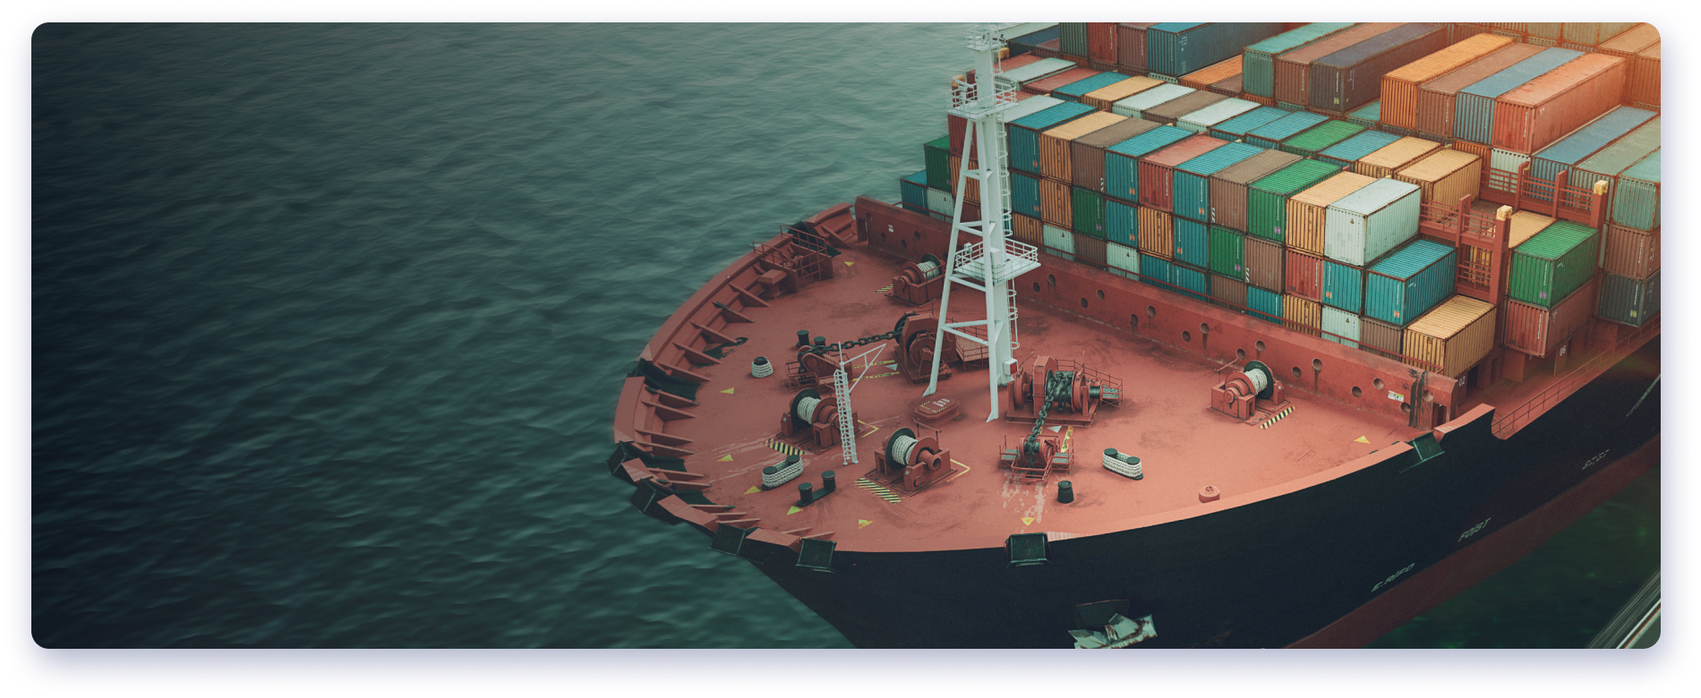
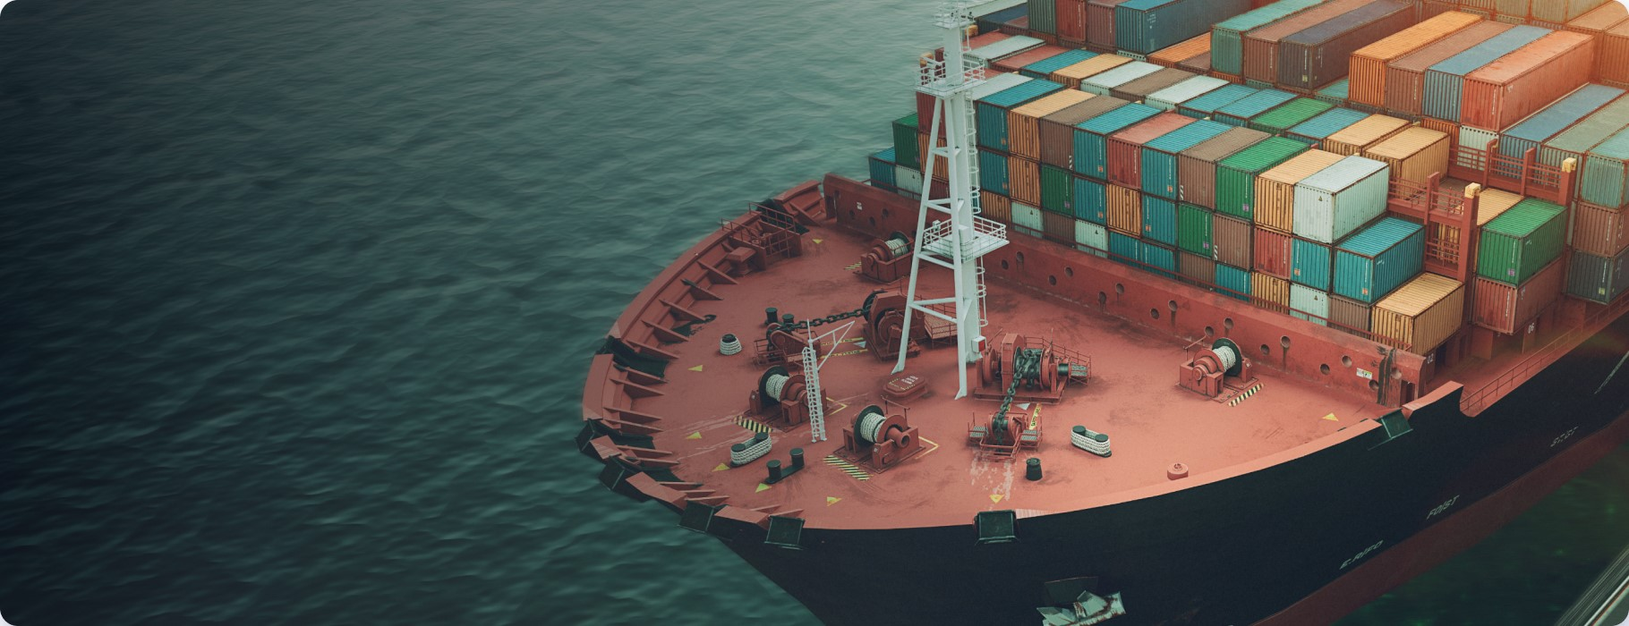
Fixed bag

diff --git a/dist/assets/css/style.min.css b/dist/assets/css/style.min.css
@@ -1,1 +1,1 @@
-/*! normalize.css v8.0.1 | MIT License | github.com/necolas/normalize.css */html{line-height:1.15;-webkit-text-size-adjust:100%}body{margin:0}main{display:block}h1{font-size:2em;margin:.67em 0}hr{box-sizing:content-box;height:0;overflow:visible}pre{font-family:monospace,monospace;font-size:1em}a{background-color:rgba(0,0,0,0)}abbr[title]{border-bottom:none;text-decoration:underline;-webkit-text-decoration:underline dotted;text-decoration:underline dotted}b,strong{font-weight:bolder}code,kbd,samp{font-family:monospace,monospace;font-size:1em}small{font-size:80%}sub,sup{font-size:75%;line-height:0;position:relative;vertical-align:baseline}sub{bottom:-.25em}sup{top:-.5em}img{border-style:none}button,input,optgroup,select,textarea{font-family:inherit;font-size:100%;line-height:1.15;margin:0}button,input{overflow:visible}button,select{text-transform:none}[type=button],[type=reset],[type=submit],button{-webkit-appearance:button}[type=button]::-moz-focus-inner,[type=reset]::-moz-focus-inner,[type=submit]::-moz-focus-inner,button::-moz-focus-inner{border-style:none;padding:0}[type=button]:-moz-focusring,[type=reset]:-moz-focusring,[type=submit]:-moz-focusring,button:-moz-focusring{outline:1px dotted ButtonText}fieldset{padding:.35em .75em .625em}legend{box-sizing:border-box;color:inherit;display:table;max-width:100%;padding:0;white-space:normal}progress{vertical-align:baseline}textarea{overflow:auto}[type=checkbox],[type=radio]{box-sizing:border-box;padding:0}[type=number]::-webkit-inner-spin-button,[type=number]::-webkit-outer-spin-button{height:auto}[type=search]{-webkit-appearance:textfield;outline-offset:-2px}[type=search]::-webkit-search-decoration{-webkit-appearance:none}::-webkit-file-upload-button{-webkit-appearance:button;font:inherit}details{display:block}summary{display:list-item}template{display:none}[hidden]{display:none}@font-face{font-family:"Proxima Nova";src:url(../fonts/ProximaNova-Regular.woff);font-weight:400}@font-face{font-family:"Proxima Nova";src:url(../fonts/ProximaNova-Semibold.woff);font-weight:600}@font-face{font-family:"Proxima Nova";src:url(../fonts/ProximaNova-Bold.woff);font-weight:700}@font-face{font-family:"Proxima Nova";src:url(../fonts/ProximaNova-Light.woff);font-weight:400}body{background-color:#282b38}*{box-sizing:border-box;font-family:"Proxima Nova";font-style:normal}h1,h2,h3,h4,h5,h6{margin:0}p{margin-block-start:0;margin-block-end:0}ul{list-style:none;margin-block-start:1em;margin-block-end:1em;padding-inline-start:0}.container{max-width:1170px;padding:0 15px;margin:0 auto}.lock{overflow:hidden}.title{max-width:463px;font-weight:700;font-size:30px;line-height:71px;text-transform:uppercase;color:#fff}@media(min-width:320px){.title{font-size:56px;font-size:calc(.0270833333 * 100vw + 21.3333333333px)}}@media(min-width:1280px){.title{font-size:56px}}.descr{font-weight:400;font-size:20px;line-height:27px;color:#fff}.descr__slide{margin-top:8px}.button{background-color:#e58d35;width:171px;height:50px;font-weight:600;font-size:15px;color:#fff;border-radius:90px;border:none}.button__slide{margin-top:37px;width:293px;height:68px;text-align:left;padding-left:30px;padding-right:97px;position:relative}.button__slide::after{content:"";width:27px;height:27px;position:absolute;top:50%;right:21px;transform:translateY(-50%);background:url(../icon/arrow-right.svg) center center/cover no-repeat}@media(max-width:800px){.title{max-width:100%;text-align:center}.descr{text-align:center}.button__slide{display:block;margin:37px auto 0 auto}}.slider{margin:23px auto 0 auto;padding:0 50px;max-width:1820px;position:relative}.slider__wrapper{width:100%;overflow:hidden}.slider__navigation{width:100%}.slider__prev{position:absolute;left:8.18%;background:0 0;border:none;top:50%;transform:translateY(-50%)}.slider__prev svg{fill:#fff}.slider__next{position:absolute;right:8.18%;background:0 0;border:none;top:50%;transform:translateY(-50%)}.slider__next svg{fill:#fff}.slider__pagination{position:absolute;bottom:43px;left:50%;transform:translateX(-50%);min-width:110px;height:8px;display:flex;justify-content:space-between;align-items:center}.slider__pagination-item{width:10px;height:10px;opacity:.9;border:2px solid #fff;border-radius:90px}.slider__pagination-item.active{background-color:#fff}@media(max-width:800px){.header-slider{padding:0}}.header{padding:25px 18px;position:relative}.header-slide{min-height:700px;border-radius:20px;overflow:hidden;padding:163px 30px 267px 30px}.header-slide__wrapper{margin-left:18.68%}.header-slide_1{background:url(../img/Header/1.jpg) center center/cover no-repeat}.header-slide_2{background:url(../img/Header/2.jpg) center center/cover no-repeat}.header-slide_3{background:url(../img/Header/3.jpg) center center/cover no-repeat}.header-slide_4{background:url(../img/Header/4.jpg) center center/cover no-repeat}.menu{display:flex;justify-content:space-between;align-items:center;position:relative}.menu__logo{width:15.08%;margin-right:30px}.menu__logo img{width:100%}.menu__body{display:flex;justify-content:space-between;align-items:center;width:76.4%}.menu__nav{width:69.11%}.menu__list{display:flex;justify-content:space-between}.menu__link{font-weight:400;font-size:16px;line-height:23px;color:#fff;text-decoration:none;position:relative;transition:.3s all}.menu__link:hover{color:#e58d35;font-size:18px}.menu__block{width:171px;height:50px;margin-left:30px}.menu__burger{height:40px;width:40px;display:flex;align-items:center;position:absolute;top:0;right:0}.menu__burger span{display:none;width:100%;height:4px;background-color:#fff}.menu__burger span::after,.menu__burger span::before{content:"";height:4px;width:100%;background-color:#fff;position:absolute;right:0;transition:.3s all}.menu__burger span::before{top:7px}.menu__burger span::after{bottom:7px}.menu__burger.active span{height:0}.menu__burger.active span::before{transform:rotate(-45deg);top:18px}.menu__burger.active span::after{transform:rotate(45deg);bottom:18px}@media(max-width:960px){.menu__logo{width:172px;height:48.35px}.menu__body{position:fixed;flex-direction:column;width:50%;height:100vh;top:0;right:-100%;background:#282b38;z-index:5;padding:50px 0 50px 0}.menu__body.active{right:0}.menu__nav{height:60%;width:100%}.menu__list{height:100%;flex-direction:column;align-items:center}.menu__burger{z-index:20}.menu__burger span{display:block}}@media(max-width:800px){.header-slide__wrapper{margin-left:0;padding-left:5%;padding-right:5%}}@media(max-width:630px){.menu__body{width:100%}.menu__nav{height:72%}}
+/*! normalize.css v8.0.1 | MIT License | github.com/necolas/normalize.css */html{line-height:1.15;-webkit-text-size-adjust:100%}body{margin:0}main{display:block}h1{font-size:2em;margin:.67em 0}hr{box-sizing:content-box;height:0;overflow:visible}pre{font-family:monospace,monospace;font-size:1em}a{background-color:rgba(0,0,0,0)}abbr[title]{border-bottom:none;text-decoration:underline;-webkit-text-decoration:underline dotted;text-decoration:underline dotted}b,strong{font-weight:bolder}code,kbd,samp{font-family:monospace,monospace;font-size:1em}small{font-size:80%}sub,sup{font-size:75%;line-height:0;position:relative;vertical-align:baseline}sub{bottom:-.25em}sup{top:-.5em}img{border-style:none}button,input,optgroup,select,textarea{font-family:inherit;font-size:100%;line-height:1.15;margin:0}button,input{overflow:visible}button,select{text-transform:none}[type=button],[type=reset],[type=submit],button{-webkit-appearance:button}[type=button]::-moz-focus-inner,[type=reset]::-moz-focus-inner,[type=submit]::-moz-focus-inner,button::-moz-focus-inner{border-style:none;padding:0}[type=button]:-moz-focusring,[type=reset]:-moz-focusring,[type=submit]:-moz-focusring,button:-moz-focusring{outline:1px dotted ButtonText}fieldset{padding:.35em .75em .625em}legend{box-sizing:border-box;color:inherit;display:table;max-width:100%;padding:0;white-space:normal}progress{vertical-align:baseline}textarea{overflow:auto}[type=checkbox],[type=radio]{box-sizing:border-box;padding:0}[type=number]::-webkit-inner-spin-button,[type=number]::-webkit-outer-spin-button{height:auto}[type=search]{-webkit-appearance:textfield;outline-offset:-2px}[type=search]::-webkit-search-decoration{-webkit-appearance:none}::-webkit-file-upload-button{-webkit-appearance:button;font:inherit}details{display:block}summary{display:list-item}template{display:none}[hidden]{display:none}@font-face{font-family:"Proxima Nova";src:url(../fonts/ProximaNova-Regular.woff);font-weight:400}@font-face{font-family:"Proxima Nova";src:url(../fonts/ProximaNova-Semibold.woff);font-weight:600}@font-face{font-family:"Proxima Nova";src:url(../fonts/ProximaNova-Bold.woff);font-weight:700}@font-face{font-family:"Proxima Nova";src:url(../fonts/ProximaNova-Light.woff);font-weight:400}body{background-color:#282b38}*{box-sizing:border-box;font-family:"Proxima Nova";font-style:normal}h1,h2,h3,h4,h5,h6{margin:0}p{margin-block-start:0;margin-block-end:0}ul{list-style:none;margin-block-start:1em;margin-block-end:1em;padding-inline-start:0}.container{max-width:1170px;padding:0 15px;margin:0 auto}.lock{overflow:hidden}.title{max-width:463px;font-weight:700;font-size:30px;line-height:71px;text-transform:uppercase;color:#fff}@media(min-width:320px){.title{font-size:56px;font-size:calc(.0270833333 * 100vw + 21.3333333333px)}}@media(min-width:1280px){.title{font-size:56px}}.descr{font-weight:400;font-size:20px;line-height:27px;color:#fff}.descr__slide{margin-top:8px}.button{background-color:#e58d35;width:171px;height:50px;font-weight:600;font-size:15px;color:#fff;border-radius:90px;border:none;transition:.2s all;cursor:pointer}.button:hover{transform:scale(1.05)}.button__slide{margin-top:37px;width:293px;height:68px;text-align:left;padding-left:30px;padding-right:97px;position:relative}.button__slide::after{content:"";width:27px;height:27px;position:absolute;top:50%;right:21px;transform:translateY(-50%);background:url(../icon/arrow-right.svg) center center/cover no-repeat}@media(max-width:800px){.title{max-width:100%;text-align:center}.descr{text-align:center}.button__slide{display:block;margin:37px auto 0 auto}}.slider{margin:23px auto 0 auto;position:relative}.slider__wrapper{width:100%;overflow:hidden}.slider__navigation{width:100%;height:46px;z-index:1;position:absolute;top:50%}.slider__prev{position:absolute;left:8.18%;background:0 0;border:none;cursor:pointer}.slider__prev svg{fill:#fff;transition:.2s all}.slider__prev svg:hover{fill:#e58d35}.slider__next{position:absolute;right:8.18%;background:0 0;border:none;cursor:pointer}.slider__next svg{fill:#fff;transition:.2s all}.slider__next svg:hover{fill:#e58d35}.slider__pagination{position:absolute;bottom:43px;left:50%;transform:translateX(-50%);min-width:110px;height:8px;display:flex;justify-content:space-between;align-items:center}.slider__pagination-item{width:10px;height:10px;opacity:.9;border:2px solid #fff;border-radius:90px;transition:.2s all;cursor:pointer}.slider__pagination-item:hover{transform:scale(1.2)}.slider__pagination-item.active{background-color:#fff}.header-slide{height:700px;border-radius:20px;overflow:hidden;padding:163px 30px 267px 30px}.header-slide__wrapper{margin-left:18.68%}.header-slide_1{background:url(../img/Header/1.jpg) center center/cover no-repeat}.header-slide_2{background:url(../img/Header/2.jpg) center center/cover no-repeat}.header-slide_3{background:url(../img/Header/3.jpg) center center/cover no-repeat}.header-slide_4{background:url(../img/Header/4.jpg) center center/cover no-repeat}@media(max-width:1024px){.header-slide{height:600px;padding:63px 30px 110px 30px}}@media(max-width:800px){.header-slide{height:500px;padding:63px 30px 110px 30px}}@media(max-width:630px){.slider__navigation{display:none}}.header{padding:25px 50px;position:relative}.menu{display:flex;justify-content:space-between;align-items:center;position:relative}.menu__logo{width:15.08%;margin-right:30px}.menu__logo img{width:100%}.menu__body{display:flex;justify-content:space-between;align-items:center;width:76.4%}.menu__nav{width:69.11%}.menu__list{display:flex;justify-content:space-between}.menu__link{font-weight:400;font-size:16px;line-height:23px;color:#fff;text-decoration:none;position:relative;transition:.3s all}.menu__link:hover{color:#e58d35}.menu__block{width:171px;height:50px;margin-left:30px}.menu__burger{height:40px;width:40px;display:flex;align-items:center;position:absolute;top:0;right:0}.menu__burger span{display:none;width:100%;height:4px;background-color:#fff}.menu__burger span::after,.menu__burger span::before{content:"";height:4px;width:100%;background-color:#fff;position:absolute;right:0;transition:.3s all}.menu__burger span::before{top:7px}.menu__burger span::after{bottom:7px}.menu__burger.active span{height:0}.menu__burger.active span::before{transform:rotate(-45deg);top:18px}.menu__burger.active span::after{transform:rotate(45deg);bottom:18px}@media(max-width:960px){.header{padding:25px 30px}.menu__logo{width:172px;height:48.35px}.menu__body{position:fixed;flex-direction:column;width:50%;height:100vh;top:0;right:-100%;background:#282b38;z-index:5;padding:50px 0 50px 0}.menu__body.active{right:0}.menu__nav{height:60%;width:100%}.menu__list{height:100%;flex-direction:column;align-items:center}.menu__burger{z-index:20}.menu__burger span{display:block}}@media(max-width:800px){.header{padding:25px 10px}.header-slide__wrapper{margin-left:0;padding-left:5%;padding-right:5%}.header-slider{padding:0}}@media(max-width:630px){.menu__body{width:100%}.menu__nav{height:72%}}

diff --git a/src/assets/css/style.min.css b/src/assets/css/style.min.css
@@ -1,1 +1,1 @@
-/*! normalize.css v8.0.1 | MIT License | github.com/necolas/normalize.css */html{line-height:1.15;-webkit-text-size-adjust:100%}body{margin:0}main{display:block}h1{font-size:2em;margin:.67em 0}hr{box-sizing:content-box;height:0;overflow:visible}pre{font-family:monospace,monospace;font-size:1em}a{background-color:rgba(0,0,0,0)}abbr[title]{border-bottom:none;text-decoration:underline;-webkit-text-decoration:underline dotted;text-decoration:underline dotted}b,strong{font-weight:bolder}code,kbd,samp{font-family:monospace,monospace;font-size:1em}small{font-size:80%}sub,sup{font-size:75%;line-height:0;position:relative;vertical-align:baseline}sub{bottom:-.25em}sup{top:-.5em}img{border-style:none}button,input,optgroup,select,textarea{font-family:inherit;font-size:100%;line-height:1.15;margin:0}button,input{overflow:visible}button,select{text-transform:none}[type=button],[type=reset],[type=submit],button{-webkit-appearance:button}[type=button]::-moz-focus-inner,[type=reset]::-moz-focus-inner,[type=submit]::-moz-focus-inner,button::-moz-focus-inner{border-style:none;padding:0}[type=button]:-moz-focusring,[type=reset]:-moz-focusring,[type=submit]:-moz-focusring,button:-moz-focusring{outline:1px dotted ButtonText}fieldset{padding:.35em .75em .625em}legend{box-sizing:border-box;color:inherit;display:table;max-width:100%;padding:0;white-space:normal}progress{vertical-align:baseline}textarea{overflow:auto}[type=checkbox],[type=radio]{box-sizing:border-box;padding:0}[type=number]::-webkit-inner-spin-button,[type=number]::-webkit-outer-spin-button{height:auto}[type=search]{-webkit-appearance:textfield;outline-offset:-2px}[type=search]::-webkit-search-decoration{-webkit-appearance:none}::-webkit-file-upload-button{-webkit-appearance:button;font:inherit}details{display:block}summary{display:list-item}template{display:none}[hidden]{display:none}@font-face{font-family:"Proxima Nova";src:url(../fonts/ProximaNova-Regular.woff);font-weight:400}@font-face{font-family:"Proxima Nova";src:url(../fonts/ProximaNova-Semibold.woff);font-weight:600}@font-face{font-family:"Proxima Nova";src:url(../fonts/ProximaNova-Bold.woff);font-weight:700}@font-face{font-family:"Proxima Nova";src:url(../fonts/ProximaNova-Light.woff);font-weight:400}body{background-color:#282b38}*{box-sizing:border-box;font-family:"Proxima Nova";font-style:normal}h1,h2,h3,h4,h5,h6{margin:0}p{margin-block-start:0;margin-block-end:0}ul{list-style:none;margin-block-start:1em;margin-block-end:1em;padding-inline-start:0}.container{max-width:1170px;padding:0 15px;margin:0 auto}.lock{overflow:hidden}.title{max-width:463px;font-weight:700;font-size:30px;line-height:71px;text-transform:uppercase;color:#fff}@media(min-width:320px){.title{font-size:56px;font-size:calc(.0270833333 * 100vw + 21.3333333333px)}}@media(min-width:1280px){.title{font-size:56px}}.descr{font-weight:400;font-size:20px;line-height:27px;color:#fff}.descr__slide{margin-top:8px}.button{background-color:#e58d35;width:171px;height:50px;font-weight:600;font-size:15px;color:#fff;border-radius:90px;border:none}.button__slide{margin-top:37px;width:293px;height:68px;text-align:left;padding-left:30px;padding-right:97px;position:relative}.button__slide::after{content:"";width:27px;height:27px;position:absolute;top:50%;right:21px;transform:translateY(-50%);background:url(../icon/arrow-right.svg) center center/cover no-repeat}@media(max-width:800px){.title{max-width:100%;text-align:center}.descr{text-align:center}.button__slide{display:block;margin:37px auto 0 auto}}.slider{margin:23px auto 0 auto;padding:0 50px;max-width:1820px;position:relative}.slider__wrapper{width:100%;overflow:hidden}.slider__navigation{width:100%}.slider__prev{position:absolute;left:8.18%;background:0 0;border:none;top:50%;transform:translateY(-50%)}.slider__prev svg{fill:#fff}.slider__next{position:absolute;right:8.18%;background:0 0;border:none;top:50%;transform:translateY(-50%)}.slider__next svg{fill:#fff}.slider__pagination{position:absolute;bottom:43px;left:50%;transform:translateX(-50%);min-width:110px;height:8px;display:flex;justify-content:space-between;align-items:center}.slider__pagination-item{width:10px;height:10px;opacity:.9;border:2px solid #fff;border-radius:90px}.slider__pagination-item.active{background-color:#fff}@media(max-width:800px){.header-slider{padding:0}}.header{padding:25px 18px;position:relative}.header-slide{min-height:700px;border-radius:20px;overflow:hidden;padding:163px 30px 267px 30px}.header-slide__wrapper{margin-left:18.68%}.header-slide_1{background:url(../img/Header/1.jpg) center center/cover no-repeat}.header-slide_2{background:url(../img/Header/2.jpg) center center/cover no-repeat}.header-slide_3{background:url(../img/Header/3.jpg) center center/cover no-repeat}.header-slide_4{background:url(../img/Header/4.jpg) center center/cover no-repeat}.menu{display:flex;justify-content:space-between;align-items:center;position:relative}.menu__logo{width:15.08%;margin-right:30px}.menu__logo img{width:100%}.menu__body{display:flex;justify-content:space-between;align-items:center;width:76.4%}.menu__nav{width:69.11%}.menu__list{display:flex;justify-content:space-between}.menu__link{font-weight:400;font-size:16px;line-height:23px;color:#fff;text-decoration:none;position:relative;transition:.3s all}.menu__link:hover{color:#e58d35;font-size:18px}.menu__block{width:171px;height:50px;margin-left:30px}.menu__burger{height:40px;width:40px;display:flex;align-items:center;position:absolute;top:0;right:0}.menu__burger span{display:none;width:100%;height:4px;background-color:#fff}.menu__burger span::after,.menu__burger span::before{content:"";height:4px;width:100%;background-color:#fff;position:absolute;right:0;transition:.3s all}.menu__burger span::before{top:7px}.menu__burger span::after{bottom:7px}.menu__burger.active span{height:0}.menu__burger.active span::before{transform:rotate(-45deg);top:18px}.menu__burger.active span::after{transform:rotate(45deg);bottom:18px}@media(max-width:960px){.menu__logo{width:172px;height:48.35px}.menu__body{position:fixed;flex-direction:column;width:50%;height:100vh;top:0;right:-100%;background:#282b38;z-index:5;padding:50px 0 50px 0}.menu__body.active{right:0}.menu__nav{height:60%;width:100%}.menu__list{height:100%;flex-direction:column;align-items:center}.menu__burger{z-index:20}.menu__burger span{display:block}}@media(max-width:800px){.header-slide__wrapper{margin-left:0;padding-left:5%;padding-right:5%}}@media(max-width:630px){.menu__body{width:100%}.menu__nav{height:72%}}
+/*! normalize.css v8.0.1 | MIT License | github.com/necolas/normalize.css */html{line-height:1.15;-webkit-text-size-adjust:100%}body{margin:0}main{display:block}h1{font-size:2em;margin:.67em 0}hr{box-sizing:content-box;height:0;overflow:visible}pre{font-family:monospace,monospace;font-size:1em}a{background-color:rgba(0,0,0,0)}abbr[title]{border-bottom:none;text-decoration:underline;-webkit-text-decoration:underline dotted;text-decoration:underline dotted}b,strong{font-weight:bolder}code,kbd,samp{font-family:monospace,monospace;font-size:1em}small{font-size:80%}sub,sup{font-size:75%;line-height:0;position:relative;vertical-align:baseline}sub{bottom:-.25em}sup{top:-.5em}img{border-style:none}button,input,optgroup,select,textarea{font-family:inherit;font-size:100%;line-height:1.15;margin:0}button,input{overflow:visible}button,select{text-transform:none}[type=button],[type=reset],[type=submit],button{-webkit-appearance:button}[type=button]::-moz-focus-inner,[type=reset]::-moz-focus-inner,[type=submit]::-moz-focus-inner,button::-moz-focus-inner{border-style:none;padding:0}[type=button]:-moz-focusring,[type=reset]:-moz-focusring,[type=submit]:-moz-focusring,button:-moz-focusring{outline:1px dotted ButtonText}fieldset{padding:.35em .75em .625em}legend{box-sizing:border-box;color:inherit;display:table;max-width:100%;padding:0;white-space:normal}progress{vertical-align:baseline}textarea{overflow:auto}[type=checkbox],[type=radio]{box-sizing:border-box;padding:0}[type=number]::-webkit-inner-spin-button,[type=number]::-webkit-outer-spin-button{height:auto}[type=search]{-webkit-appearance:textfield;outline-offset:-2px}[type=search]::-webkit-search-decoration{-webkit-appearance:none}::-webkit-file-upload-button{-webkit-appearance:button;font:inherit}details{display:block}summary{display:list-item}template{display:none}[hidden]{display:none}@font-face{font-family:"Proxima Nova";src:url(../fonts/ProximaNova-Regular.woff);font-weight:400}@font-face{font-family:"Proxima Nova";src:url(../fonts/ProximaNova-Semibold.woff);font-weight:600}@font-face{font-family:"Proxima Nova";src:url(../fonts/ProximaNova-Bold.woff);font-weight:700}@font-face{font-family:"Proxima Nova";src:url(../fonts/ProximaNova-Light.woff);font-weight:400}body{background-color:#282b38}*{box-sizing:border-box;font-family:"Proxima Nova";font-style:normal}h1,h2,h3,h4,h5,h6{margin:0}p{margin-block-start:0;margin-block-end:0}ul{list-style:none;margin-block-start:1em;margin-block-end:1em;padding-inline-start:0}.container{max-width:1170px;padding:0 15px;margin:0 auto}.lock{overflow:hidden}.title{max-width:463px;font-weight:700;font-size:30px;line-height:71px;text-transform:uppercase;color:#fff}@media(min-width:320px){.title{font-size:56px;font-size:calc(.0270833333 * 100vw + 21.3333333333px)}}@media(min-width:1280px){.title{font-size:56px}}.descr{font-weight:400;font-size:20px;line-height:27px;color:#fff}.descr__slide{margin-top:8px}.button{background-color:#e58d35;width:171px;height:50px;font-weight:600;font-size:15px;color:#fff;border-radius:90px;border:none;transition:.2s all;cursor:pointer}.button:hover{transform:scale(1.05)}.button__slide{margin-top:37px;width:293px;height:68px;text-align:left;padding-left:30px;padding-right:97px;position:relative}.button__slide::after{content:"";width:27px;height:27px;position:absolute;top:50%;right:21px;transform:translateY(-50%);background:url(../icon/arrow-right.svg) center center/cover no-repeat}@media(max-width:800px){.title{max-width:100%;text-align:center}.descr{text-align:center}.button__slide{display:block;margin:37px auto 0 auto}}.slider{margin:23px auto 0 auto;position:relative}.slider__wrapper{width:100%;overflow:hidden}.slider__navigation{width:100%;height:46px;z-index:1;position:absolute;top:50%}.slider__prev{position:absolute;left:8.18%;background:0 0;border:none;cursor:pointer}.slider__prev svg{fill:#fff;transition:.2s all}.slider__prev svg:hover{fill:#e58d35}.slider__next{position:absolute;right:8.18%;background:0 0;border:none;cursor:pointer}.slider__next svg{fill:#fff;transition:.2s all}.slider__next svg:hover{fill:#e58d35}.slider__pagination{position:absolute;bottom:43px;left:50%;transform:translateX(-50%);min-width:110px;height:8px;display:flex;justify-content:space-between;align-items:center}.slider__pagination-item{width:10px;height:10px;opacity:.9;border:2px solid #fff;border-radius:90px;transition:.2s all;cursor:pointer}.slider__pagination-item:hover{transform:scale(1.2)}.slider__pagination-item.active{background-color:#fff}.header-slide{height:700px;border-radius:20px;overflow:hidden;padding:163px 30px 267px 30px}.header-slide__wrapper{margin-left:18.68%}.header-slide_1{background:url(../img/Header/1.jpg) center center/cover no-repeat}.header-slide_2{background:url(../img/Header/2.jpg) center center/cover no-repeat}.header-slide_3{background:url(../img/Header/3.jpg) center center/cover no-repeat}.header-slide_4{background:url(../img/Header/4.jpg) center center/cover no-repeat}@media(max-width:1024px){.header-slide{height:600px;padding:63px 30px 110px 30px}}@media(max-width:800px){.header-slide{height:500px;padding:63px 30px 110px 30px}}@media(max-width:630px){.slider__navigation{display:none}}.header{padding:25px 50px;position:relative}.menu{display:flex;justify-content:space-between;align-items:center;position:relative}.menu__logo{width:15.08%;margin-right:30px}.menu__logo img{width:100%}.menu__body{display:flex;justify-content:space-between;align-items:center;width:76.4%}.menu__nav{width:69.11%}.menu__list{display:flex;justify-content:space-between}.menu__link{font-weight:400;font-size:16px;line-height:23px;color:#fff;text-decoration:none;position:relative;transition:.3s all}.menu__link:hover{color:#e58d35}.menu__block{width:171px;height:50px;margin-left:30px}.menu__burger{height:40px;width:40px;display:flex;align-items:center;position:absolute;top:0;right:0}.menu__burger span{display:none;width:100%;height:4px;background-color:#fff}.menu__burger span::after,.menu__burger span::before{content:"";height:4px;width:100%;background-color:#fff;position:absolute;right:0;transition:.3s all}.menu__burger span::before{top:7px}.menu__burger span::after{bottom:7px}.menu__burger.active span{height:0}.menu__burger.active span::before{transform:rotate(-45deg);top:18px}.menu__burger.active span::after{transform:rotate(45deg);bottom:18px}@media(max-width:960px){.header{padding:25px 30px}.menu__logo{width:172px;height:48.35px}.menu__body{position:fixed;flex-direction:column;width:50%;height:100vh;top:0;right:-100%;background:#282b38;z-index:5;padding:50px 0 50px 0}.menu__body.active{right:0}.menu__nav{height:60%;width:100%}.menu__list{height:100%;flex-direction:column;align-items:center}.menu__burger{z-index:20}.menu__burger span{display:block}}@media(max-width:800px){.header{padding:25px 10px}.header-slide__wrapper{margin-left:0;padding-left:5%;padding-right:5%}.header-slider{padding:0}}@media(max-width:630px){.menu__body{width:100%}.menu__nav{height:72%}}

diff --git a/dist/js/script.js b/dist/js/script.js
@@ -2,57 +2,83 @@
 /******/ 	"use strict";
 /******/ 	var __webpack_modules__ = ({
 
-/***/ "./src/js/modules/tabs.js":
-/*!********************************!*\
-  !*** ./src/js/modules/tabs.js ***!
-  \********************************/
+/***/ "./src/js/modules/burger.js":
+/*!**********************************!*\
+  !*** ./src/js/modules/burger.js ***!
+  \**********************************/
 /***/ ((__unused_webpack_module, __webpack_exports__, __webpack_require__) => {
 
 __webpack_require__.r(__webpack_exports__);
 /* harmony export */ __webpack_require__.d(__webpack_exports__, {
 /* harmony export */   "default": () => (__WEBPACK_DEFAULT_EXPORT__)
 /* harmony export */ });
-function tabs(tabsSelector, tabsContentSelector, tabsParentSelector, activeClass) {
-  "use strict";
+/* harmony import */ var _modules_calcScroll__WEBPACK_IMPORTED_MODULE_0__ = __webpack_require__(/*! ../modules/calcScroll */ "./src/js/modules/calcScroll.js");
 
-  const tabs = document.querySelectorAll(tabsSelector),
-        tabsContent = document.querySelectorAll(tabsContentSelector),
-        tabsParent = document.querySelector(tabsParentSelector);
 
-  function hideTabContent() {
-    tabsContent.forEach(item => {
-      item.classList.add('hide');
-      item.classList.remove('show', 'fade');
-    });
-    tabs.forEach(item => {
-      item.classList.remove(activeClass);
-    });
+function burger() {
+  const burgerBtn = document.querySelector('.menu__burger'),
+        burgerMenu = document.querySelector('.menu__body'),
+        menuLink = document.querySelectorAll('.menu__link'),
+        body = document.querySelector('body'),
+        scroll = (0,_modules_calcScroll__WEBPACK_IMPORTED_MODULE_0__.calcScroll)();
+
+  function openMenu() {
+    burgerBtn.classList.add('active');
+    burgerMenu.classList.add('active');
+    body.classList.add('lock');
+    document.body.style.overflow = "hidden";
+    document.body.style.marginRight = `${scroll}px`;
   }
 
-  function showTabContent() {
-    let i = arguments.length > 0 && arguments[0] !== undefined ? arguments[0] : 0;
-    tabsContent[i].classList.add('show', 'fade');
-    tabsContent[i].classList.remove('hide');
-    tabs[i].classList.add('tabheader__item_active');
+  function closeMenu() {
+    burgerBtn.classList.remove('active');
+    burgerMenu.classList.remove('active');
+    body.classList.remove('lock');
+    document.body.style.overflow = "";
+    document.body.style.marginRight = `0px`;
   }
 
-  hideTabContent();
-  showTabContent();
-  tabsParent.addEventListener('click', event => {
-    const target = event.target;
-
-    if (target && target.classList.contains(tabsSelector.slice(1))) {
-      tabs.forEach((item, i) => {
-        if (target == item) {
-          hideTabContent();
-          showTabContent(i);
-        }
-      });
+  burgerBtn.addEventListener('click', () => {
+    if (burgerBtn.classList.contains('active')) {
+      closeMenu();
+    } else {
+      openMenu();
     }
+  });
+  menuLink.forEach(e => {
+    e.addEventListener('click', () => {
+      closeMenu();
+    });
   });
 }
 
-/* harmony default export */ const __WEBPACK_DEFAULT_EXPORT__ = (tabs);
+/* harmony default export */ const __WEBPACK_DEFAULT_EXPORT__ = (burger);
+
+/***/ }),
+
+/***/ "./src/js/modules/calcScroll.js":
+/*!**************************************!*\
+  !*** ./src/js/modules/calcScroll.js ***!
+  \**************************************/
+/***/ ((__unused_webpack_module, __webpack_exports__, __webpack_require__) => {
+
+__webpack_require__.r(__webpack_exports__);
+/* harmony export */ __webpack_require__.d(__webpack_exports__, {
+/* harmony export */   "calcScroll": () => (/* binding */ calcScroll)
+/* harmony export */ });
+function calcScroll() {
+  let div = document.createElement('div');
+  div.style.width = '50px';
+  div.style.height = '50px';
+  div.style.overflowY = 'scroll';
+  div.style.visibility = 'hidden';
+  document.body.appendChild(div);
+  let scrollWidth = div.offsetWidth - div.clientWidth;
+  div.remove();
+  return scrollWidth;
+}
+
+
 
 /***/ }),
 
@@ -158,12 +184,14 @@ var __webpack_exports__ = {};
   !*** ./src/js/main.js ***!
   \************************/
 __webpack_require__.r(__webpack_exports__);
-/* harmony import */ var _modules_tabs__WEBPACK_IMPORTED_MODULE_0__ = __webpack_require__(/*! ./modules/tabs */ "./src/js/modules/tabs.js");
+/* harmony import */ var _modules_burger__WEBPACK_IMPORTED_MODULE_0__ = __webpack_require__(/*! ./modules/burger */ "./src/js/modules/burger.js");
 /* harmony import */ var _services_services__WEBPACK_IMPORTED_MODULE_1__ = __webpack_require__(/*! ./services/services */ "./src/js/services/services.js");
 
 
 window.addEventListener('DOMContentLoaded', () => {
   "use strict";
+
+  (0,_modules_burger__WEBPACK_IMPORTED_MODULE_0__["default"])();
 });
 })();
 

diff --git a/src/assets/scss/blocks/_slider.scss b/src/assets/scss/blocks/_slider.scss
@@ -1,40 +1,47 @@
 .slider {
     margin: 23px auto 0 auto;
-    padding: 0 50px;
-    max-width: 1820px;
     position: relative;
+    &-mini { 
+    }
     &__wrapper {
         width: 100%;
         overflow: hidden;
     }
     &__navigation {
-        // position: absolute;
-        // top: 50%;
-        // transform: translateY(-50%);
         width: 100%;
+        height: 46px;
+        z-index: 1;
+        position: absolute;
+        top: 50%;
+        &-mini {
+        }
     }
-
     &__prev {
         position: absolute;
         left: 8.18%;
         background: none;
         border: none;
-        top: 50%;
-        transform: translateY(-50%);
+        cursor: pointer;
         svg {
             fill: #fff;
+            transition: 0.2s all;
+            &:hover {
+                fill: $btn-color;
+            }
         }
     }
-    
     &__next {
         position: absolute;
         right: 8.18%;;
         background: none;
         border: none;
-        top: 50%;
-        transform: translateY(-50%);
+        cursor: pointer;
         svg {
             fill: #fff;
+            transition: 0.2s all;
+            &:hover {
+                fill: $btn-color;
+            }
         }
     }
 
@@ -48,6 +55,8 @@
         display: flex;
         justify-content: space-between;
         align-items: center;
+        &-mini {
+        }
     }
 
     &__pagination-item {
@@ -56,14 +65,60 @@
         opacity: 0.9;
         border: 2px solid #FFFFFF;
         border-radius: 90px;
+        transition: 0.2s all;
+        cursor: pointer;
+        &:hover {
+            transform: scale(1.2);
+        }
     }
     &__pagination-item.active {
         background-color: #fff;
     }
 }
+.header-slide {
+    height: 700px;
+    border-radius: 20px;
+    overflow: hidden;
+    padding: 163px 30px 267px 30px;
+    &__wrapper {
+        margin-left: 18.68%;
+    }
+    &_1 {
+        background: url('../img/Header/1.jpg') center (center / cover) no-repeat;
+    }
+
+    &_2 {
+        background: url('../img/Header/2.jpg') center (center / cover) no-repeat;
+    }
+
+    &_3 {
+        background: url('../img/Header/3.jpg') center (center / cover) no-repeat;
+    }
+    &_4 {
+        background: url('../img/Header/4.jpg') center (center / cover) no-repeat;
+    }
+
+}
+
+@media (max-width: 1024px) {
+
+    .header-slide {
+        height: 600px;
+        padding: 63px 30px 110px 30px;
+    }
+
+}
 @media (max-width: 800px) {
-    .header-slider {
-        padding: 0;
+
+    .header-slide {
+        height: 500px;
+        padding: 63px 30px 110px 30px;
+    }
+
+}
+@media (max-width: 630px) {
+    .slider__navigation {
+        display: none;
     }
 
 }

diff --git a/src/assets/scss/blocks/_header.scss b/src/assets/scss/blocks/_header.scss
@@ -1,32 +1,9 @@
 .header {
-    padding: 25px 18px;
+    padding: 25px 50px;
     position: relative;
 }
 
-.header-slide {
-    min-height: 700px;
-    border-radius: 20px;
-    overflow: hidden;
-    padding: 163px 30px 267px 30px;
-    &__wrapper {
-        margin-left: 18.68%;
-    }
-    &_1 {
-        background: url('../img/Header/1.jpg') center (center / cover) no-repeat;
-    }
 
-    &_2 {
-        background: url('../img/Header/2.jpg') center (center / cover) no-repeat;
-    }
-
-    &_3 {
-        background: url('../img/Header/3.jpg') center (center / cover) no-repeat;
-    }
-    &_4 {
-        background: url('../img/Header/4.jpg') center (center / cover) no-repeat;
-    }
-
-}
 .menu {
     display: flex;
     justify-content: space-between;
@@ -66,7 +43,6 @@
             transition: 0.3s all;
             &:hover {
                 color: $btn-color;
-                font-size: 18px;
             }
 		}
 
@@ -122,6 +98,9 @@
 }
 
 @media (max-width: 960px) {
+    .header {
+        padding: 25px 30px;
+    }
     .menu__logo {
         width: 172px;
         height: 48.35px;
@@ -160,10 +139,16 @@
     }
 }
 @media (max-width: 800px) {
+    .header {
+        padding: 25px 10px;
+    }
     .header-slide__wrapper {
         margin-left: 0;
         padding-left: 5%;
         padding-right: 5%;
+    }
+    .header-slider {
+        padding: 0;
     }
 }
 @media (max-width: 630px) {

diff --git a/src/js/main.js b/src/js/main.js
@@ -1,9 +1,10 @@
-import tabs from './modules/tabs';
+import burger from './modules/burger';
 
 import services from './services/services';
 
 window.addEventListener('DOMContentLoaded', () => {
     "use strict";
+    burger();
     
 });
 

diff --git a/src/assets/scss/_base.scss b/src/assets/scss/_base.scss
@@ -57,6 +57,12 @@ ul {
     color: $text-color;
     border-radius: 90px;
     border: none;
+    transition: 0.2s all;
+    cursor: pointer;
+    &:hover {
+        transform: scale(1.05);
+        
+    }
 
     &__header {
     }
